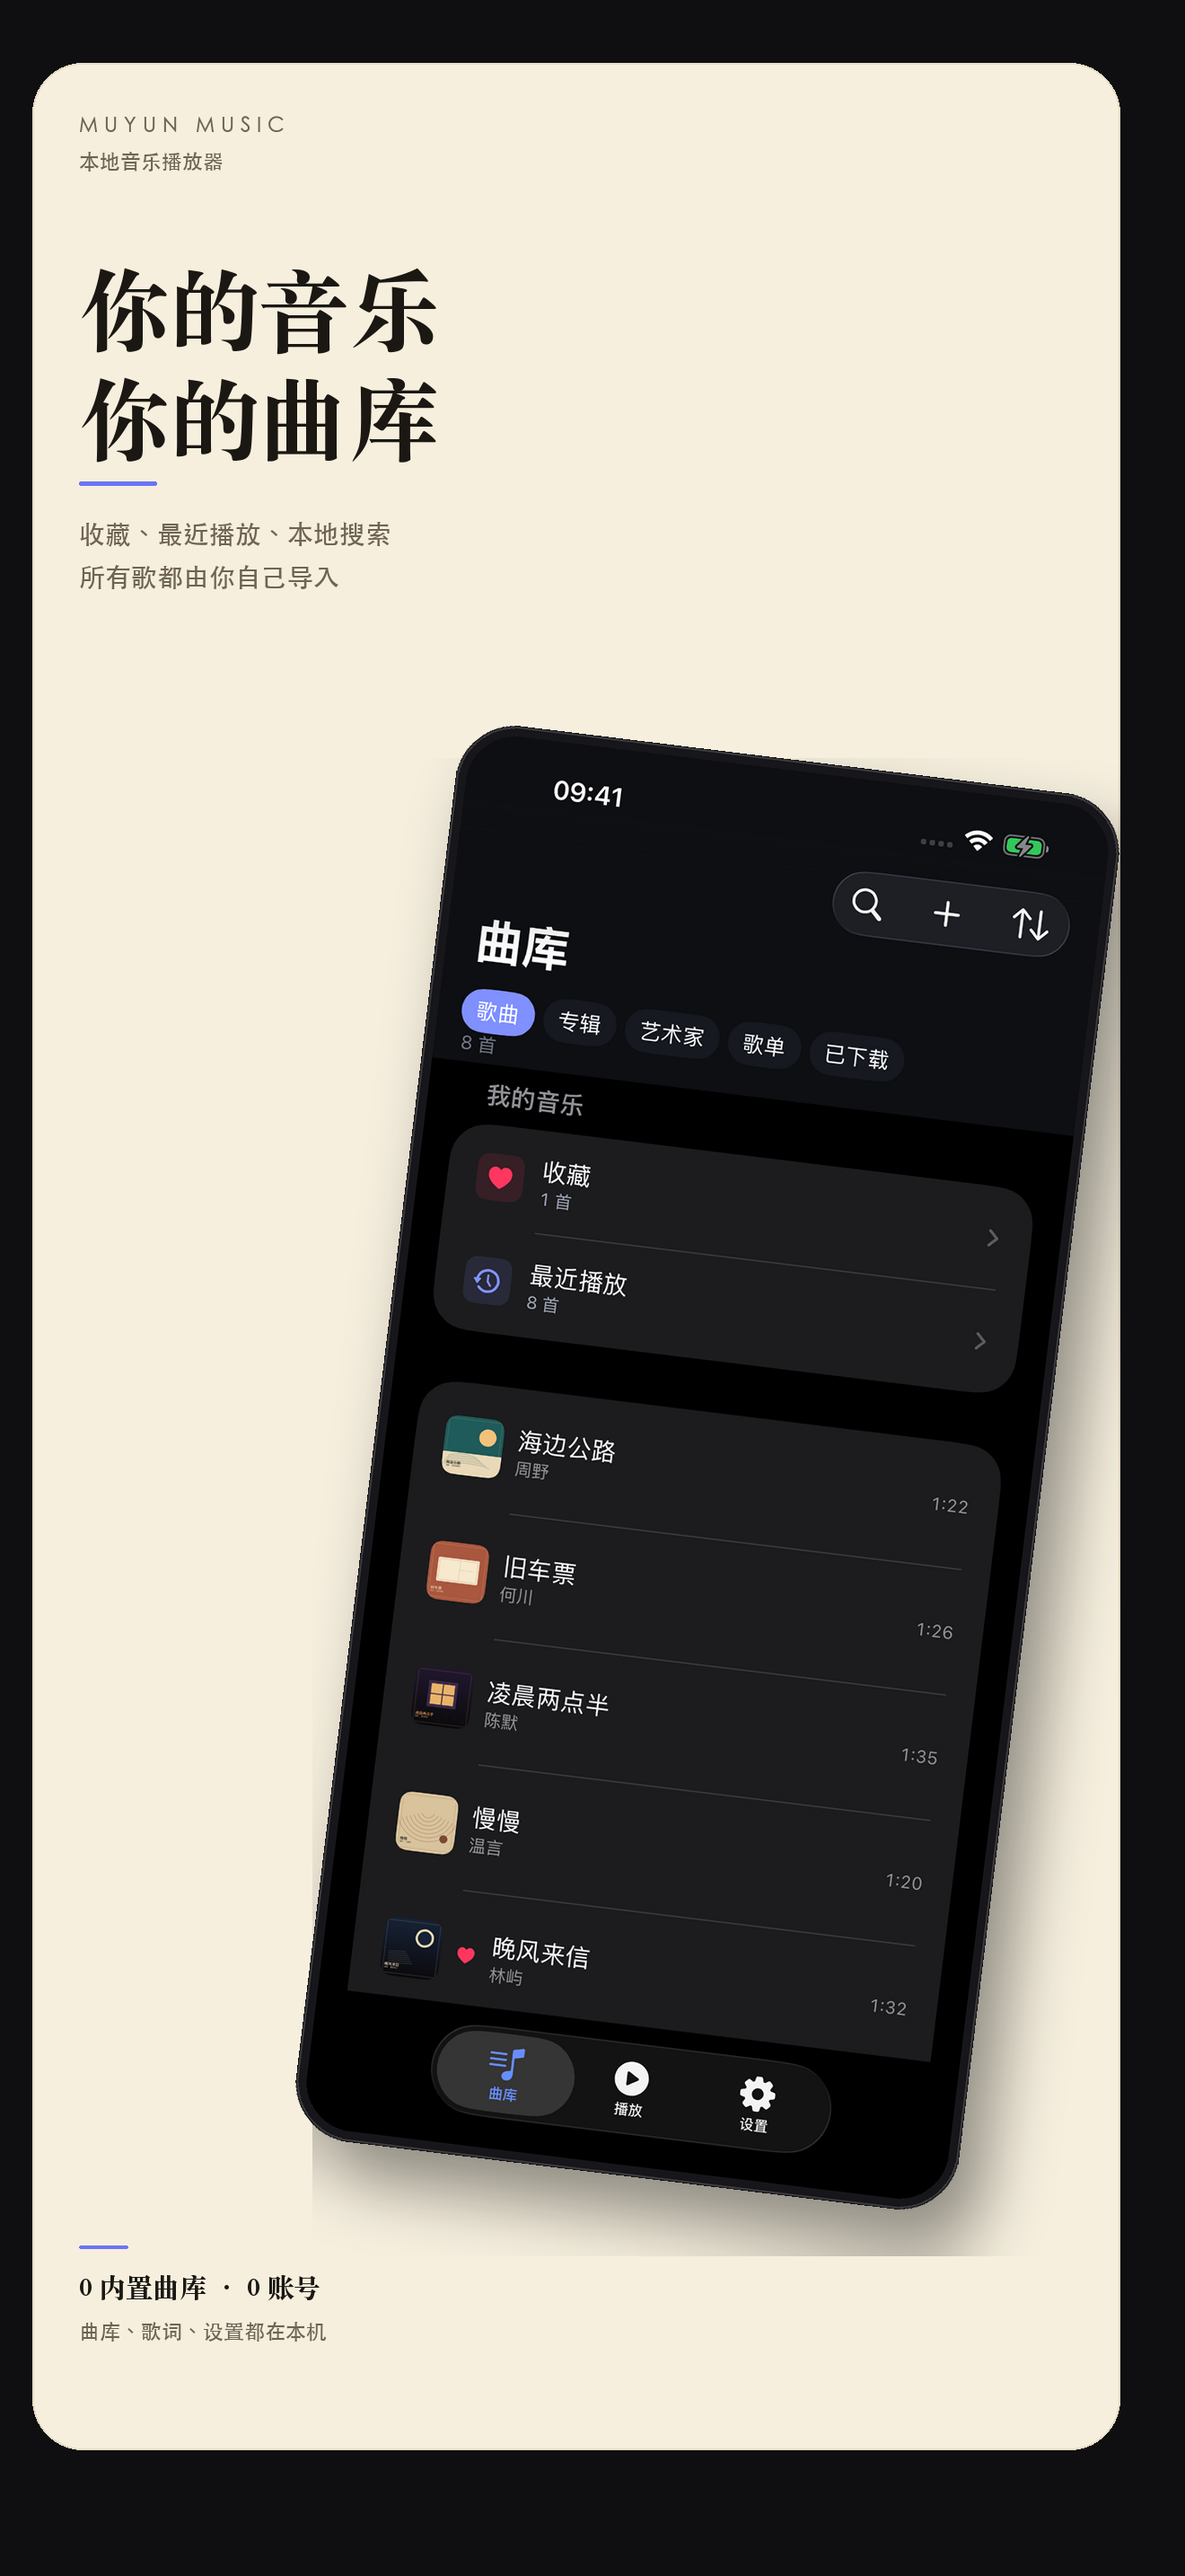
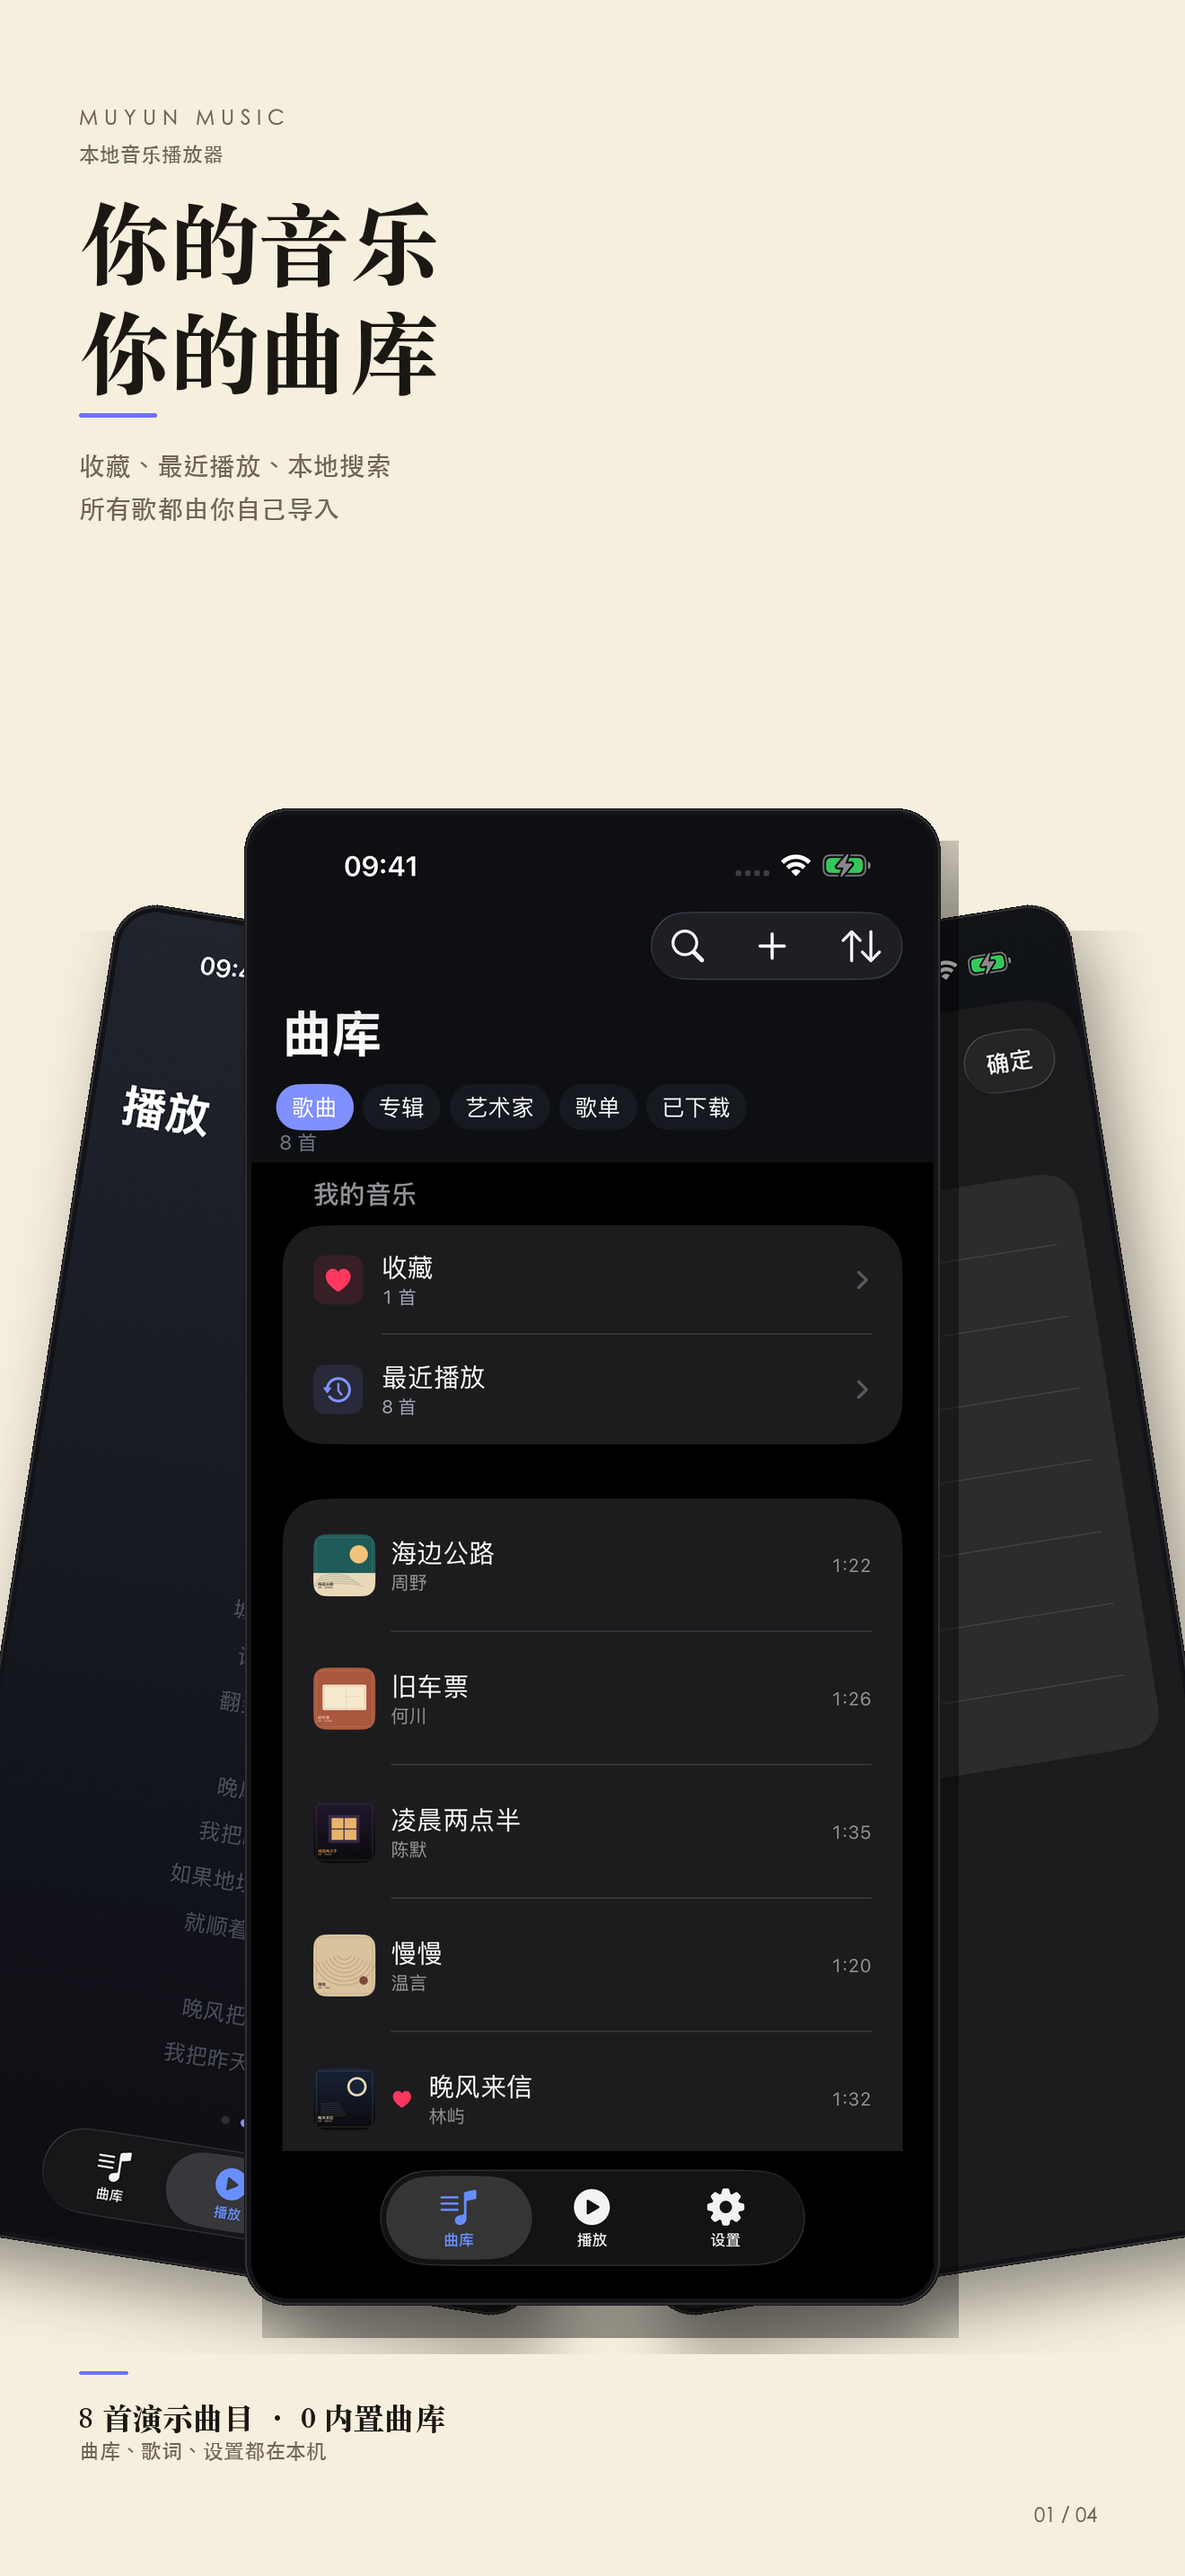
muyunmusic：商店截图改为手机屏比例多截图拼图
- 整张 1320×2868 / 2064×2752 画布就是手机屏形状；
  内部 3 个 App 界面截图斜叠（前 1 后 2），标题/文案/页脚在屏幕内，
  不再套外圈奶油卡片 + 单个手机 mockup。
- 演示曲目/歌词仍为原创：8 首假歌、8 张封面、3 份 LRC；
  截图尺寸/撞边检查全绿。
- LISTING/README/提交清单同步新截图说明；classic/ 保留上一版实拍回退。

diff --git a/muyunmusic/SUBMISSION_CHECKLIST.md b/muyunmusic/SUBMISSION_CHECKLIST.md
@@ -10,8 +10,8 @@
 |---|---|---|
 | 商店文案（推广/描述/副标题/关键词） | `APP_STORE_LISTING.md` §1–§4 | ✅ 可直接复制 |
 | 审核备注（英文/中文） | `APP_STORE_LISTING.md` §9、`review-notes.txt` | ✅ |
-| 4 张 6.9" iPhone 截图 | `screenshots/iphone/` | ✅ 1320×2868，编辑部版式 |
-| 3 张 13" iPad 截图 | `screenshots/ipad/` | ✅ 2064×2752，编辑部版式 |
+| 4 张 6.9" iPhone 截图 | `screenshots/iphone/` | ✅ 1320×2868，手机屏比例拼图 |
+| 3 张 13" iPad 截图 | `screenshots/ipad/` | ✅ 2064×2752，手机屏比例拼图 |
 | 原创演示曲目/歌词 | `screenshots/showcase/` | ✅ 8 首假歌、3 份 LRC、8 张封面 |
 | 隐私政策 | `privacy.html` / `PRIVACY.md` | ✅ 已含相机/本地网络/自填服务器 |
 | 技术支持 | `support.html` | ✅ 已更新 |
